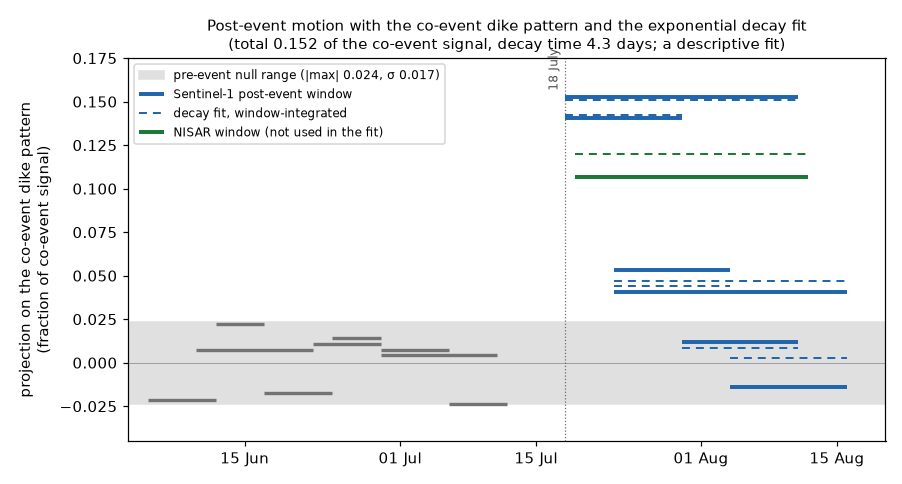
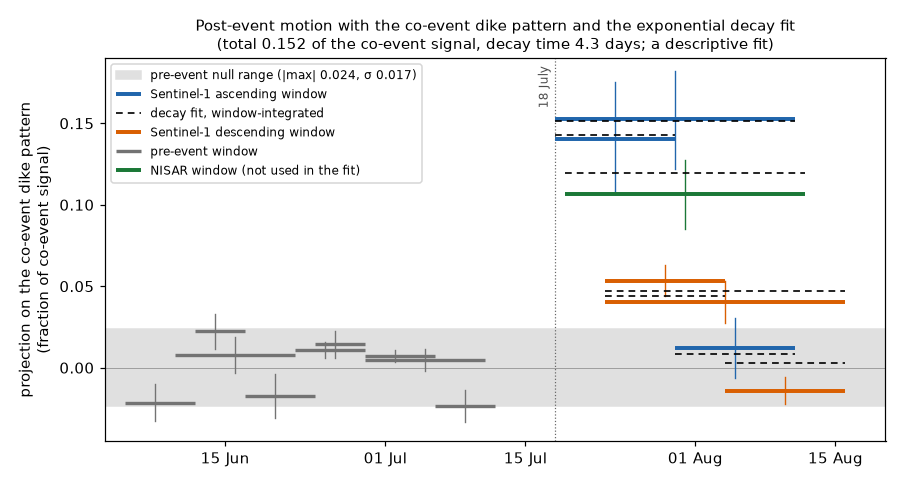
Add intervals, track identity, and role-based selection to the decay figure
Four repairs to the decay figure:

- Every window now carries its saved 95% cluster-bootstrap interval,
  including the NISAR continuation window (0.085-0.128, read from
  results/continuation.json with the window identity checked), so
  residuals can be judged against per-window uncertainty rather than
  the Sentinel-1 null band alone (NISAR gives 0.107 against a
  prediction of 0.120).
- The two Sentinel-1 tracks are distinguished (ascending blue,
  descending orange), the pre-event windows are named in the legend,
  and the fitted bars are one black dashed style across tracks. The
  supplement caption now says that the two 24-day windows overlap
  their constituent 12-day windows and that all six enter the fit,
  which has no formal parameter uncertainty: the four short windows
  alone give 4.7 days and the two long windows 3.8 days, sensitivity
  results consistent with the pinned 3.8-4.9 day range.
- Windows are selected by their recorded role (row["role"]), never by
  amplitude; the previous >0.5 filter silently misclassified
  hypothetical regenerated values (a post-event value of 0.6 vanished,
  a descending co-event value of 0.4 became a post-event observation).
- The 18 July annotation sits inside the axes, top-aligned, clear of
  the title, which it overlapped by about five pixels.

The refit is unchanged (0.1517365, 4.277274 d, RMS 0.00840695); no
numeric output of any pinned report changes here.

diff --git a/mh26/decay_figure.py b/mh26/decay_figure.py
@@ -1,13 +1,17 @@
 """Supplement figure for the post-event decay fit.
 
 Pure layout of the pinned Sentinel-1 projection report
-(results/s1_tracks.json): each window's projection onto the co-event
-dike pattern drawn over its date span, the nine pre-event null windows,
-the fitted window-integrated values from the exponential decay, and the
-independent NISAR window that the fit does not use. No quantity is
+(results/s1_tracks.json) and the pinned NISAR continuation product
+(results/continuation.json): each window's projection onto the
+co-event dike pattern drawn over its date span with its 95%
+cluster-bootstrap interval, the nine pre-event null windows, the
+fitted window-integrated values from the exponential decay, and the
+independent NISAR window that the fit does not use. Windows are
+selected by their recorded role, never by value. No quantity is
 recomputed here except the fitted model evaluated per window.
 
-Run after mh26.s1_tracks:  python -m mh26.decay_figure
+Run after mh26.s1_tracks and mh26.continuation:
+    python -m mh26.decay_figure
 Writes results/decay_fit_windows.{png,pdf}.
 """
 
@@ -26,7 +30,9 @@ import numpy as np
 from .params import RESULTS
 
 T0 = dt.date(2026, 7, 18)
-COEVENT_FRACTION_MIN = 0.5
+NISAR_WINDOW = "2026-07-19→2026-08-12"
+COLORS = {"ascending": "#2166ac", "descending": "#d95f02",
+          "pre": "0.45", "nisar": "#1b7837", "fit": "k"}
 
 
 def window_dates(row: dict) -> tuple[dt.date, dt.date]:
@@ -35,21 +41,24 @@ def window_dates(row: dict) -> tuple[dt.date, dt.date]:
     return to_date(ref), to_date(sec)
 
 
+def draw_window(ax, start, end, value, interval, color, lw=2.6, label=None):
+    ax.plot([start, end], [value, value], color=color, lw=lw,
+            solid_capstyle="butt", zorder=3, label=label)
+    if interval is not None:
+        mid = start + (end - start) / 2
+        ax.plot([mid, mid], list(interval), color=color, lw=0.9, zorder=2)
+
+
 def main() -> None:
     report = json.loads((RESULTS / "s1_tracks.json").read_text())
+    continuation = json.loads((RESULTS / "continuation.json").read_text())
+    if continuation["window"] != NISAR_WINDOW:
+        raise SystemExit(f"continuation window {continuation['window']} "
+                         f"is not the expected {NISAR_WINDOW}")
     decay = report["post_event_decay"]
     null = report["null_summary"]
-    nisar = report["nisar_cross_sensor_check"]
     amplitude = decay["amplitude_total_pattern_fraction"]
     tau = decay["tau_days"]
-
-    pre, post = [], []
-    for row in report["projections"]:
-        start, end = window_dates(row)
-        if row["pattern_fraction"] > COEVENT_FRACTION_MIN:
-            continue  # the two co-event windows are off this scale
-        (post if end > T0 else pre).append((start, end,
-                                            row["pattern_fraction"]))
 
     fig, ax = plt.subplots(figsize=(8.2, 4.4))
     band = null["max_abs"]
@@ -58,32 +67,45 @@ def main() -> None:
                      f"σ {null['standard_deviation']:.3f})")
     ax.axhline(0, color="0.6", lw=0.6, zorder=1)
     ax.axvline(T0, color="0.4", lw=0.8, ls=":", zorder=1)
-    ax.annotate("18 July", (T0, 0.158), fontsize=8, color="0.3",
-                ha="right", rotation=90, xytext=(-3, 0),
+    ax.annotate("18 July", (T0, 0.185), fontsize=8, color="0.3",
+                ha="right", va="top", rotation=90, xytext=(-3, 0),
                 textcoords="offset points")
 
-    for start, end, value in pre:
-        ax.plot([start, end], [value, value], color="0.45", lw=2.2,
-                solid_capstyle="butt", zorder=2)
-    for k, (start, end, value) in enumerate(post):
-        ax.plot([start, end], [value, value], color="#2166ac", lw=2.6,
-                solid_capstyle="butt", zorder=3,
-                label="Sentinel-1 post-event window" if k == 0 else None)
-        t1, t2 = (start - T0).days, (end - T0).days
-        fitted = amplitude * (np.exp(-t1 / tau) - np.exp(-t2 / tau))
-        # The fitted value spans the same window as its observation, so
-        # the vertical gap between the two bars is the fit residual.
-        ax.plot([start, end], [fitted, fitted], color="#2166ac", lw=1.3,
-                ls=(0, (4, 3)), solid_capstyle="butt", zorder=4,
-                label="decay fit, window-integrated" if k == 0 else None)
+    seen = set()
+    for row in report["projections"]:
+        if row["role"] not in ("pre-event", "post-event"):
+            continue  # the two co-event windows are off this scale
+        start, end = window_dates(row)
+        interval = row.get("pattern_fraction_cluster_wild_95")
+        if row["role"] == "pre-event":
+            key, color, lw = "pre", COLORS["pre"], 2.2
+            label = "pre-event window"
+        else:
+            key = row["geometry"]
+            color, lw = COLORS[key], 2.6
+            label = f"Sentinel-1 {key} window"
+        draw_window(ax, start, end, row["pattern_fraction"], interval,
+                    color, lw=lw, label=None if key in seen else label)
+        seen.add(key)
+        if row["role"] == "post-event":
+            t1, t2 = (start - T0).days, (end - T0).days
+            fitted = amplitude * (np.exp(-t1 / tau) - np.exp(-t2 / tau))
+            # The fitted value spans the same window as its observation,
+            # so the solid/dashed gap is the fit residual.
+            ax.plot([start, end], [fitted, fitted], color=COLORS["fit"],
+                    lw=1.1, ls=(0, (4, 3)), solid_capstyle="butt", zorder=4,
+                    label=None if "fit" in seen else
+                    "decay fit, window-integrated")
+            seen.add("fit")
 
     n_start = dt.date(2026, 7, 19)
     n_end = dt.date(2026, 8, 12)
-    ax.plot([n_start, n_end], [nisar["observed_nisar_pattern_fraction"]] * 2,
-            color="#1b7837", lw=2.6, solid_capstyle="butt", zorder=3,
-            label="NISAR window (not used in the fit)")
-    ax.plot([n_start, n_end], [nisar["predicted_from_s1_decay"]] * 2,
-            color="#1b7837", lw=1.3, ls=(0, (4, 3)),
+    draw_window(ax, n_start, n_end, continuation["pattern_fraction"],
+                continuation["pattern_fraction_cluster_wild_95"],
+                COLORS["nisar"], label="NISAR window (not used in the fit)")
+    ax.plot([n_start, n_end],
+            [report["nisar_cross_sensor_check"]["predicted_from_s1_decay"]] * 2,
+            color=COLORS["fit"], lw=1.1, ls=(0, (4, 3)),
             solid_capstyle="butt", zorder=4)
 
     ax.set_ylabel("projection on the co-event dike pattern\n"
@@ -95,7 +117,7 @@ def main() -> None:
         fontsize=10)
     ax.xaxis.set_major_formatter(mdates.DateFormatter("%d %b"))
     ax.set_xlim(dt.date(2026, 6, 3), dt.date(2026, 8, 20))
-    ax.set_ylim(-0.045, 0.175)
+    ax.set_ylim(-0.045, 0.19)
     ax.legend(fontsize=8, loc="upper left")
     fig.tight_layout()
     for ext in ("png", "pdf"):
